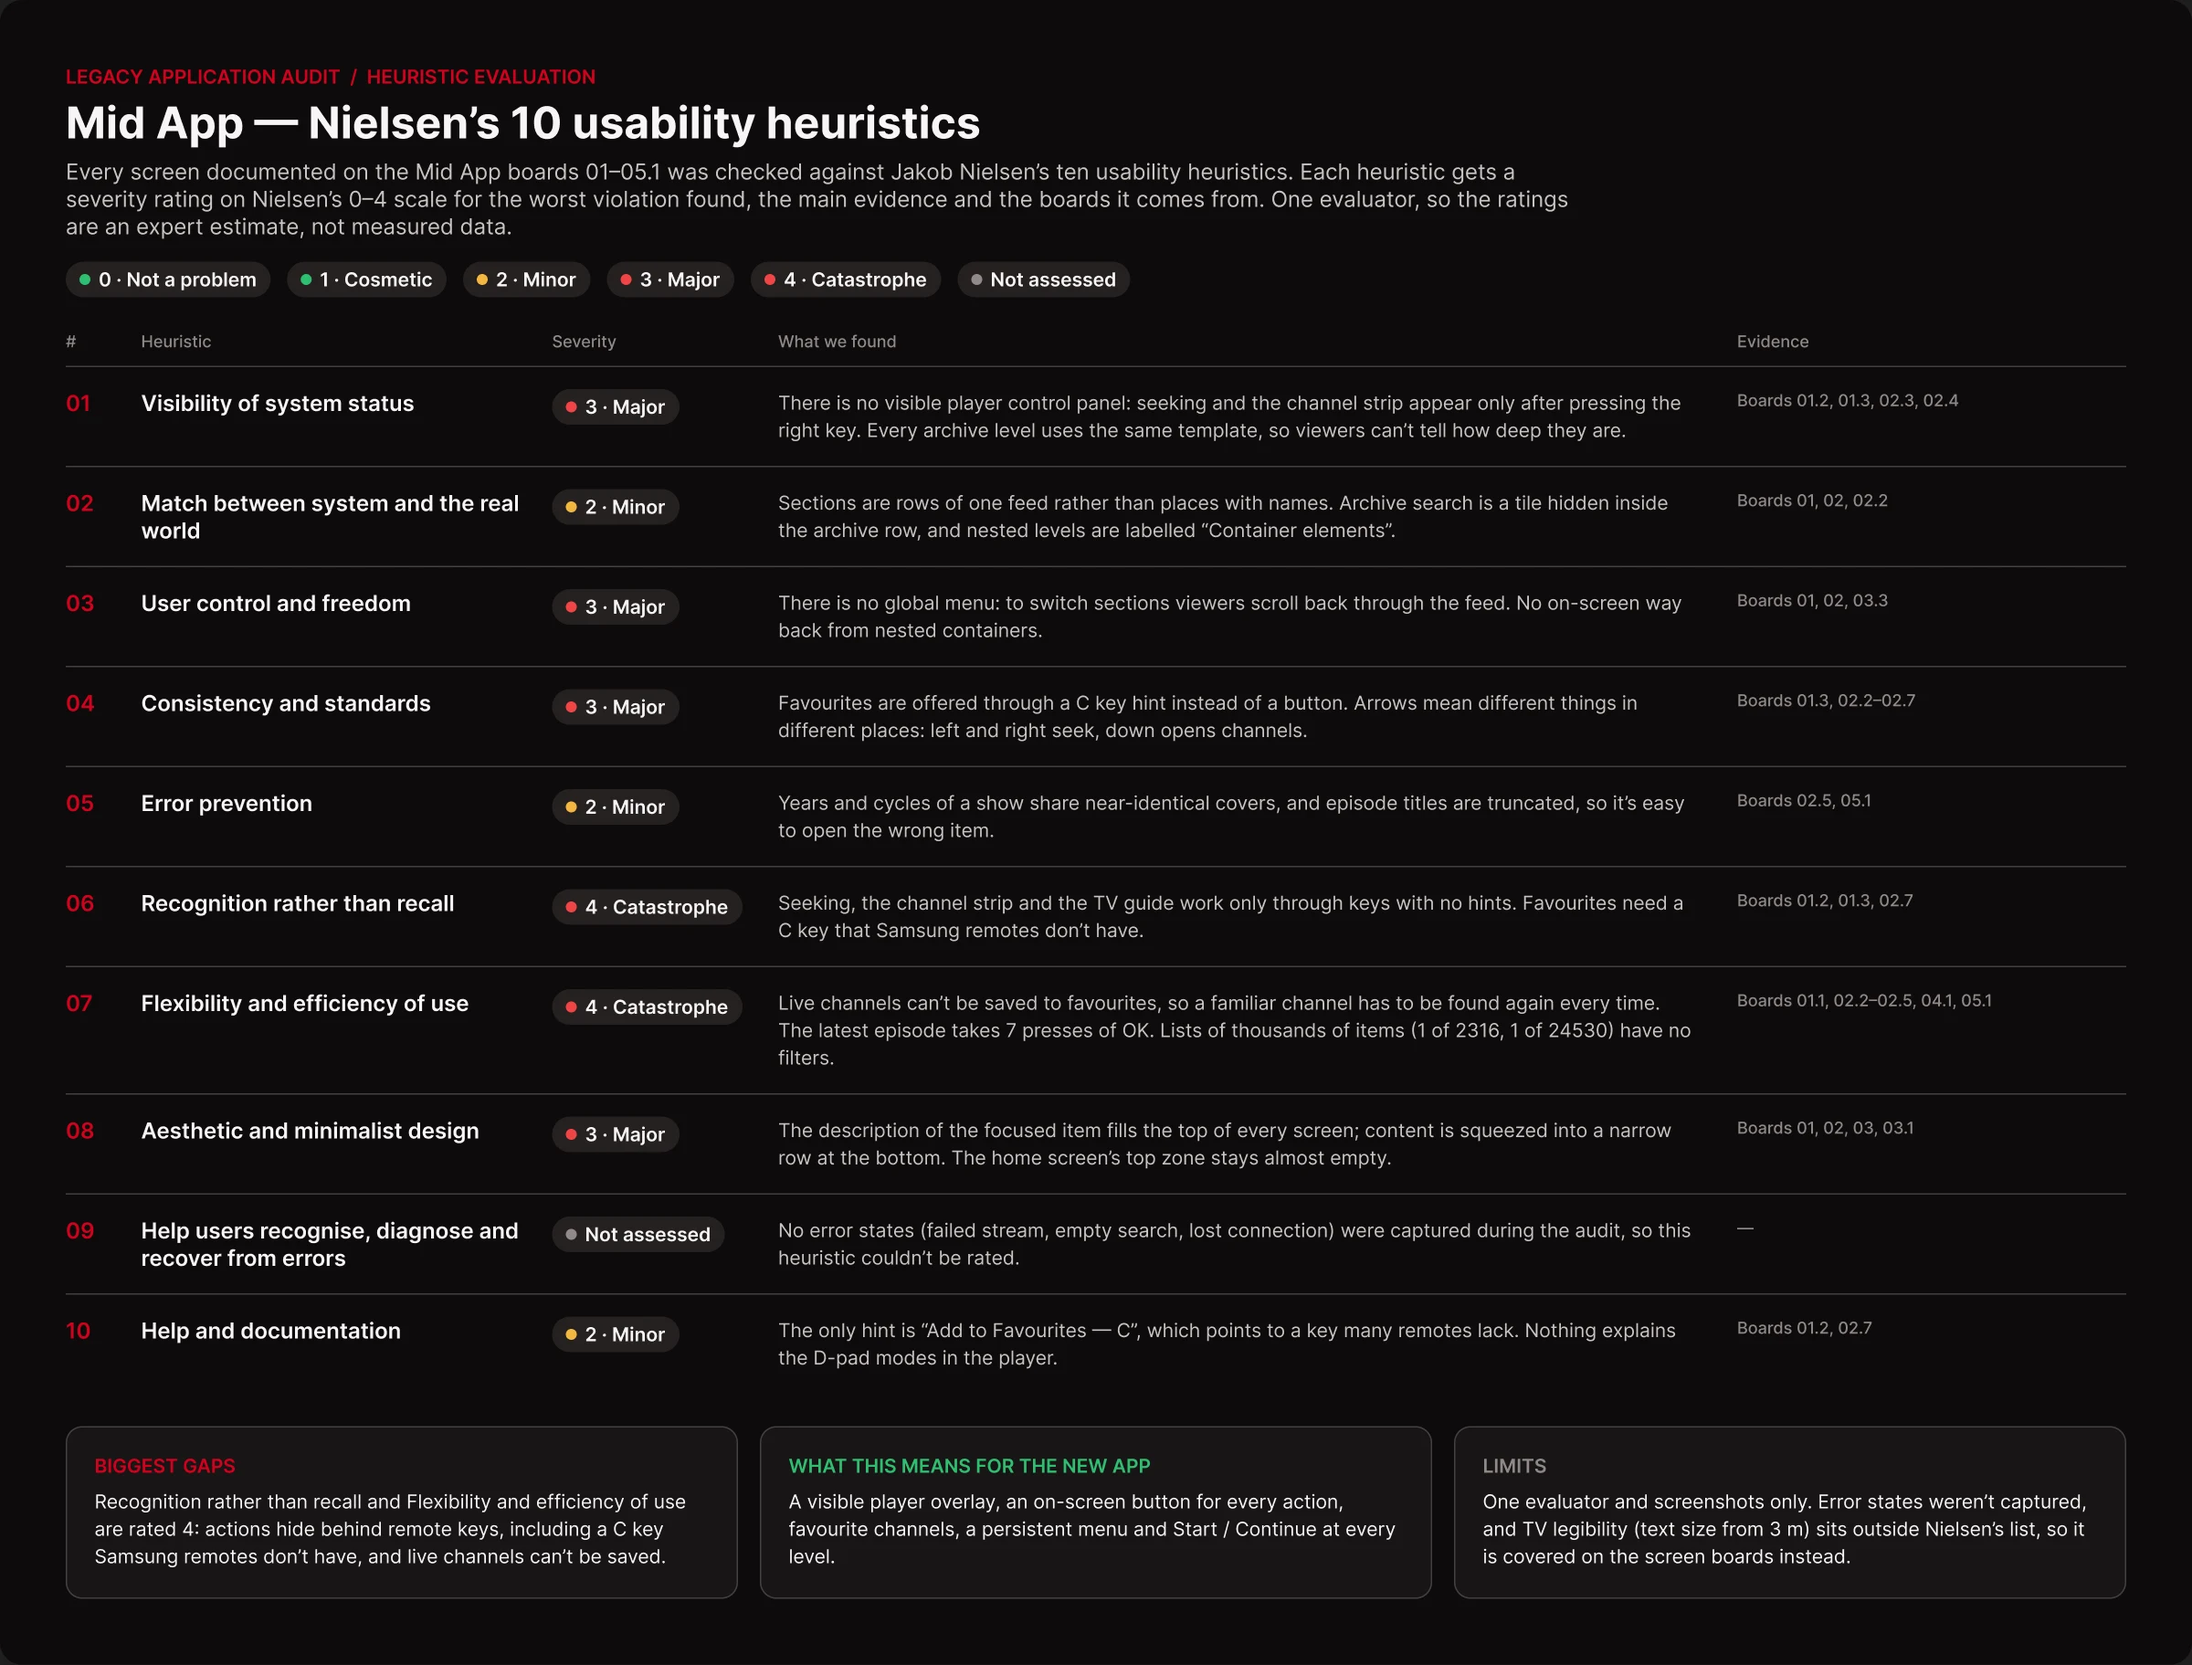
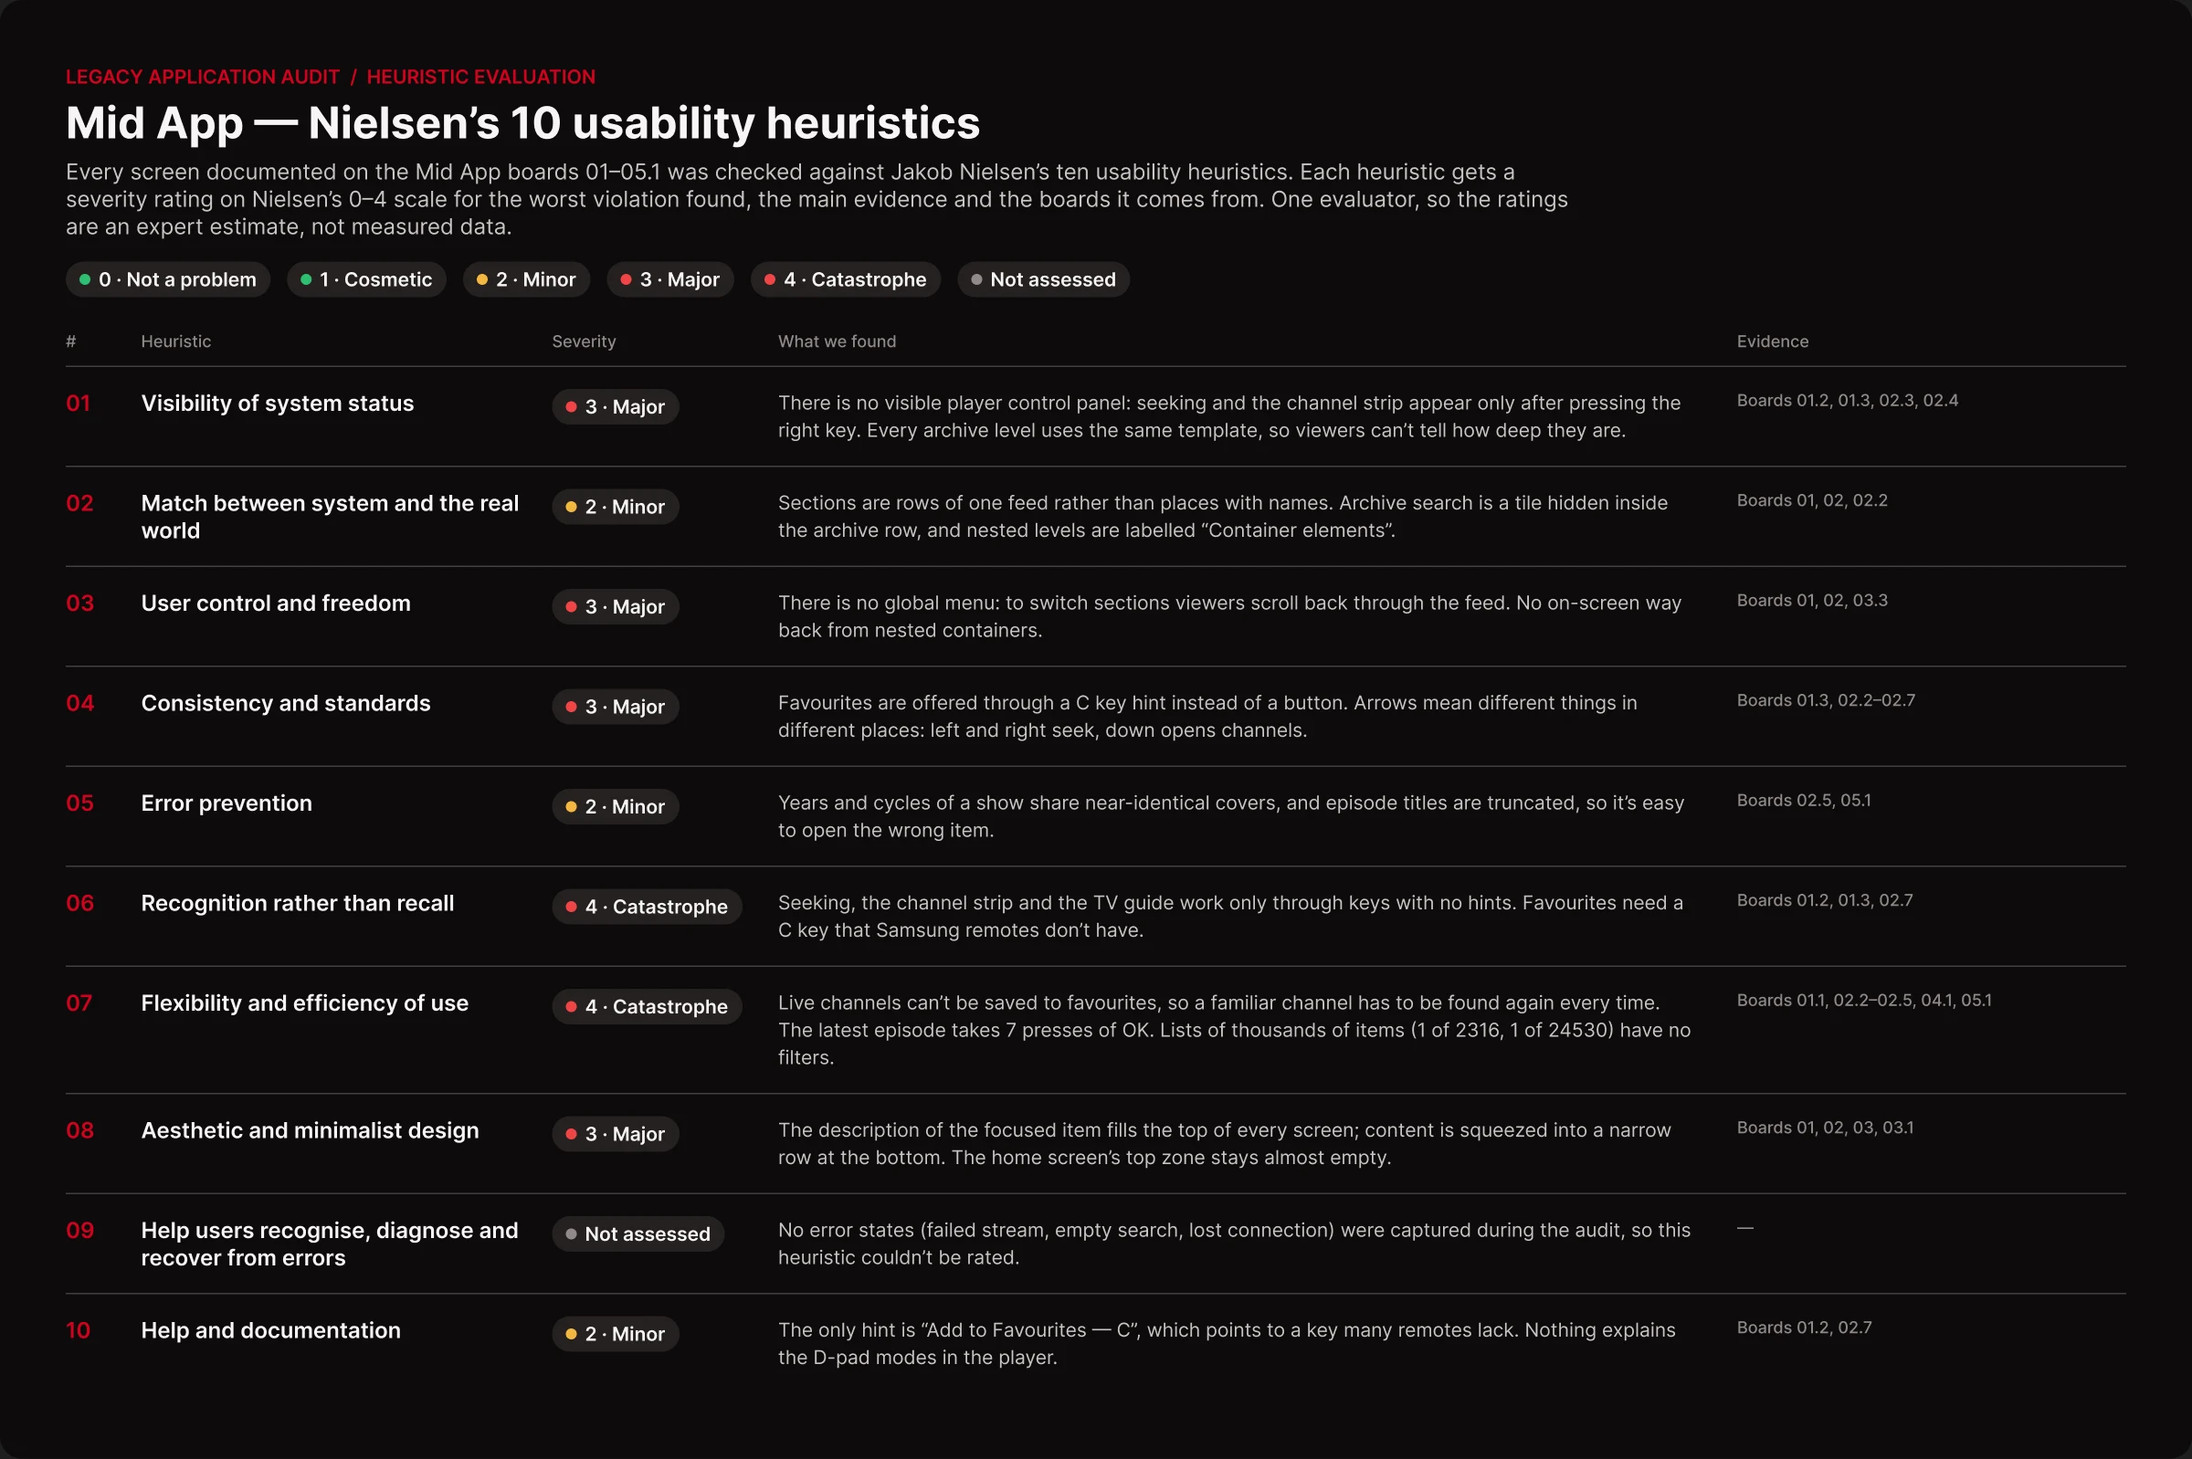
Heuristic boards: remove summary cards
Claude-Session: https://claude.ai/code/session_01SPxUN71HcQkaLBR8t2uXXX

diff --git a/audit/index.html b/audit/index.html
@@ -99,7 +99,7 @@ summary:focus-visible{outline:3px solid var(--red);outline-offset:4px;border-rad
 <h3>Pain points and benefits</h3>
 <p>Sticky notes collected from every board: red is what gets in the way of watching, green is what works and is worth keeping.</p>
 <a class="zoom full" href="img/pain-oldest.webp" target="_blank" rel="noopener"><img src="img/pain-oldest.webp" alt="Oldest app pain points and benefits board" width="2408" height="1489" loading="lazy"></a>
-<h3>Heuristic evaluation</h3><p>Every screen checked against Jakob Nielsen’s ten usability heuristics, each rated on the 0–4 severity scale with the evidence behind it.</p><a class="zoom full" href="img/heuristics-oldest.webp" target="_blank" rel="noopener"><img src="img/heuristics-oldest.webp" alt="Heuristic evaluation of the Oldest app" width="2400" height="1973" loading="lazy"></a><h3>User journey map</h3>
+<h3>Heuristic evaluation</h3><p>Every screen checked against Jakob Nielsen’s ten usability heuristics, each rated on the 0–4 severity scale with the evidence behind it.</p><a class="zoom full" href="img/heuristics-oldest.webp" target="_blank" rel="noopener"><img src="img/heuristics-oldest.webp" alt="Heuristic evaluation of the Oldest app" width="2400" height="1718" loading="lazy"></a><h3>User journey map</h3>
 <p>The same scenario in every generation: find a specific episode of “What? Where? When?” and start it. Each step shows the screen, the action, the viewer’s likely thoughts, pain points, opportunities and an emotion curve. Thoughts and emotions are a hypothesis built from the audit, not interview data.</p>
 <div class="wide"><a class="zoom full" href="img/jm-oldest.webp" target="_blank" rel="noopener"><img src="img/jm-oldest.webp" alt="Oldest app user journey map" width="4500" height="1763" loading="lazy"></a></div>
 <details><summary>Screen-by-screen analysis · 16 boards</summary>
@@ -127,7 +127,7 @@ summary:focus-visible{outline:3px solid var(--red);outline-offset:4px;border-rad
 <h3>Pain points and benefits</h3>
 <p>Sticky notes collected from every board: red is what gets in the way of watching, green is what works and is worth keeping.</p>
 <a class="zoom full" href="img/pain-mid.webp" target="_blank" rel="noopener"><img src="img/pain-mid.webp" alt="Mid app pain points and benefits board" width="2408" height="1489" loading="lazy"></a>
-<h3>Heuristic evaluation</h3><p>Every screen checked against Jakob Nielsen’s ten usability heuristics, each rated on the 0–4 severity scale with the evidence behind it.</p><a class="zoom full" href="img/heuristics-mid.webp" target="_blank" rel="noopener"><img src="img/heuristics-mid.webp" alt="Heuristic evaluation of the Mid app" width="2400" height="1823" loading="lazy"></a><h3>User journey map</h3>
+<h3>Heuristic evaluation</h3><p>Every screen checked against Jakob Nielsen’s ten usability heuristics, each rated on the 0–4 severity scale with the evidence behind it.</p><a class="zoom full" href="img/heuristics-mid.webp" target="_blank" rel="noopener"><img src="img/heuristics-mid.webp" alt="Heuristic evaluation of the Mid app" width="2400" height="1598" loading="lazy"></a><h3>User journey map</h3>
 <p>The same scenario in every generation: find a specific episode of “What? Where? When?” and start it. Each step shows the screen, the action, the viewer’s likely thoughts, pain points, opportunities and an emotion curve. Thoughts and emotions are a hypothesis built from the audit, not interview data.</p>
 <div class="wide"><a class="zoom full" href="img/jm-mid.webp" target="_blank" rel="noopener"><img src="img/jm-mid.webp" alt="Mid app user journey map" width="4500" height="1554" loading="lazy"></a></div>
 <details><summary>Screen-by-screen analysis · 21 boards</summary>
@@ -160,7 +160,7 @@ summary:focus-visible{outline:3px solid var(--red);outline-offset:4px;border-rad
 <h3>Pain points and benefits</h3>
 <p>Sticky notes collected from every board: red is what gets in the way of watching, green is what works and is worth keeping.</p>
 <a class="zoom full" href="img/pain-newer.webp" target="_blank" rel="noopener"><img src="img/pain-newer.webp" alt="Newer app pain points and benefits board" width="2408" height="1489" loading="lazy"></a>
-<h3>Heuristic evaluation</h3><p>Every screen checked against Jakob Nielsen’s ten usability heuristics, each rated on the 0–4 severity scale with the evidence behind it.</p><a class="zoom full" href="img/heuristics-newer.webp" target="_blank" rel="noopener"><img src="img/heuristics-newer.webp" alt="Heuristic evaluation of the Newer app" width="2400" height="1772" loading="lazy"></a><h3>User journey map</h3>
+<h3>Heuristic evaluation</h3><p>Every screen checked against Jakob Nielsen’s ten usability heuristics, each rated on the 0–4 severity scale with the evidence behind it.</p><a class="zoom full" href="img/heuristics-newer.webp" target="_blank" rel="noopener"><img src="img/heuristics-newer.webp" alt="Heuristic evaluation of the Newer app" width="2400" height="1547" loading="lazy"></a><h3>User journey map</h3>
 <p>The same scenario in every generation: find a specific episode of “What? Where? When?” and start it. Each step shows the screen, the action, the viewer’s likely thoughts, pain points, opportunities and an emotion curve. Thoughts and emotions are a hypothesis built from the audit, not interview data.</p>
 <div class="wide"><a class="zoom full" href="img/jm-newer.webp" target="_blank" rel="noopener"><img src="img/jm-newer.webp" alt="Newer app user journey map" width="4500" height="1930" loading="lazy"></a></div>
 <details><summary>Screen-by-screen analysis · 7 boards</summary>
